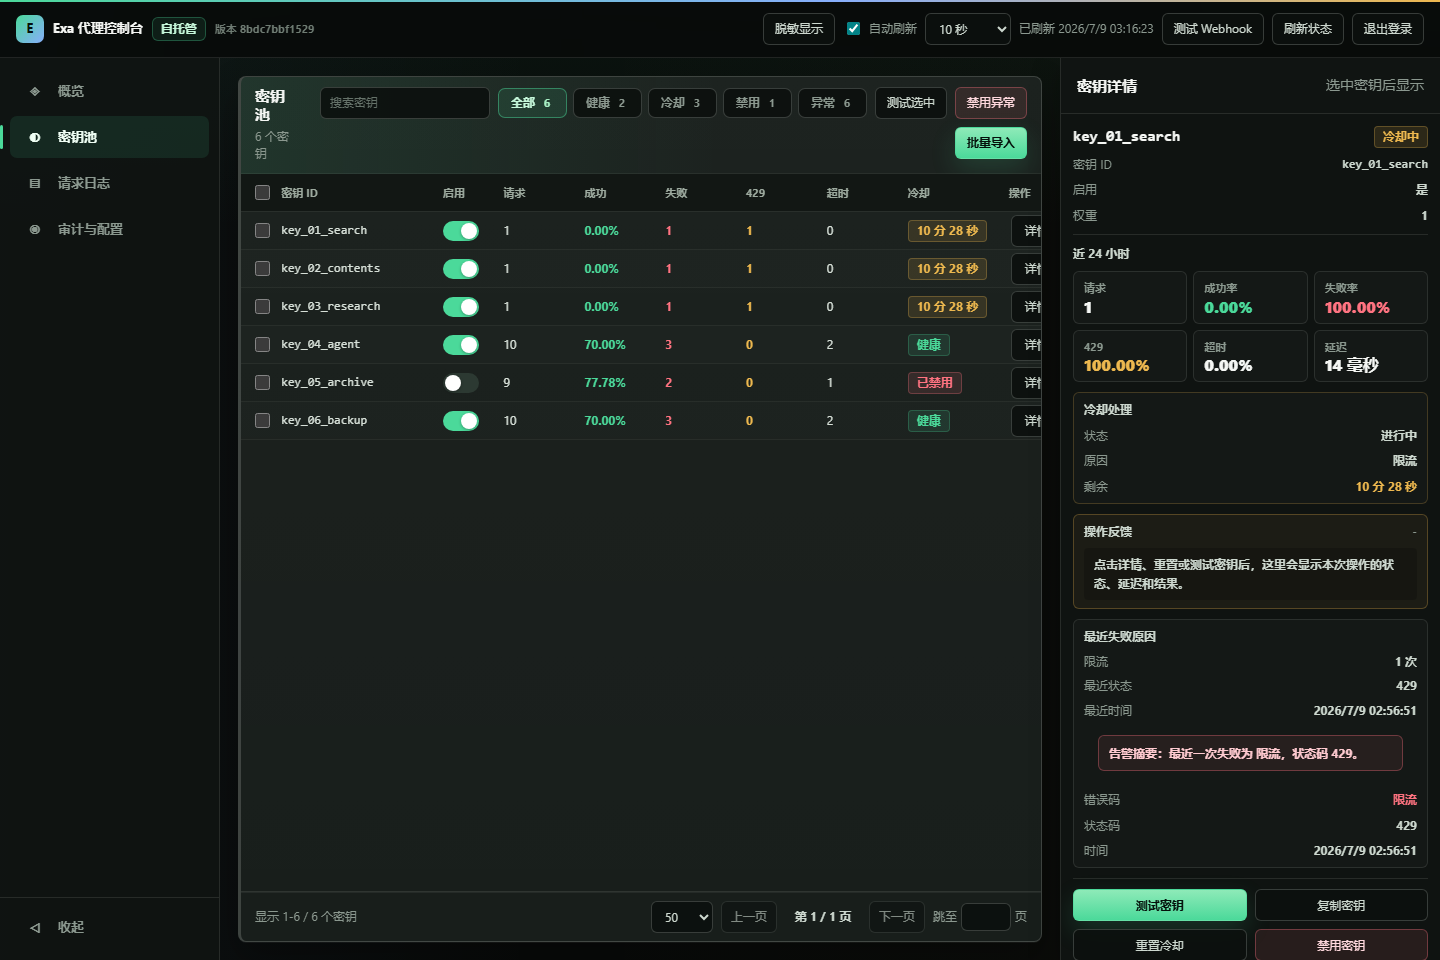
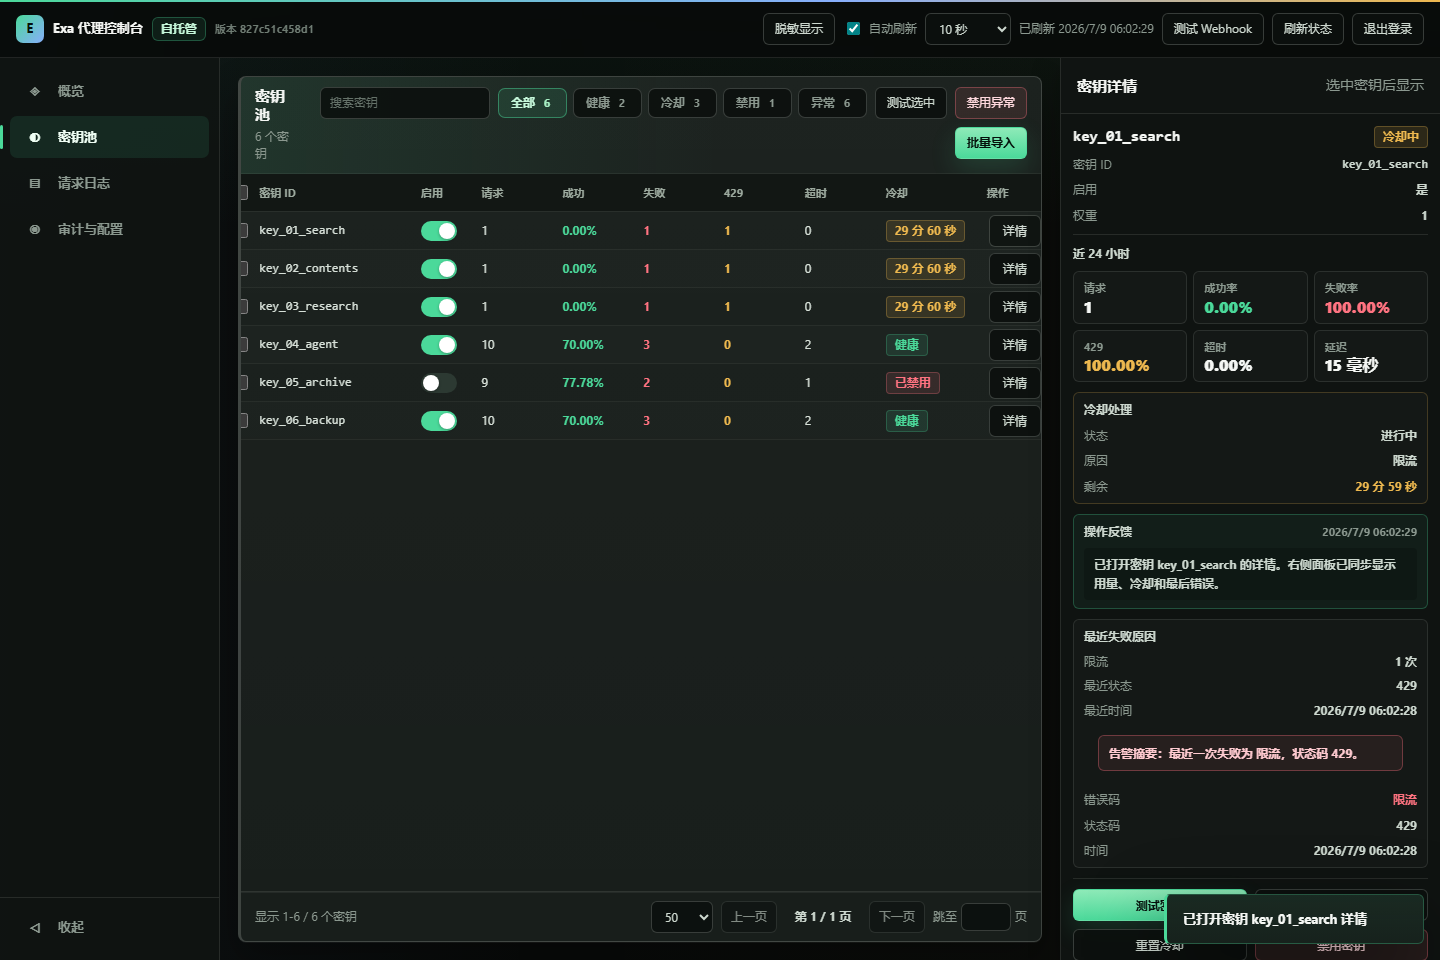
docs(readme): refresh admin console preview

diff --git a/scripts/capture-admin-preview.ts b/scripts/capture-admin-preview.ts
@@ -1,0 +1,67 @@
+import { chromium } from '@playwright/test';
+import { mkdirSync } from 'node:fs';
+import { dirname, resolve } from 'node:path';
+import { spawn } from 'node:child_process';
+import { once } from 'node:events';
+
+const port = Number(process.env.EXA_PREVIEW_PORT || 8787);
+const baseUrl = `http://127.0.0.1:${port}`;
+const outputPath = resolve(process.cwd(), 'docs/assets/admin-console.png');
+
+const server = spawn(process.execPath, ['--import', 'tsx', 'scripts/demo-ui-server.ts'], {
+  cwd: process.cwd(),
+  env: { ...process.env, EXA_DEMO_PORT: String(port) },
+  stdio: ['ignore', 'pipe', 'pipe']
+});
+
+let serverOutput = '';
+server.stdout?.on('data', (chunk) => { serverOutput += String(chunk); });
+server.stderr?.on('data', (chunk) => { serverOutput += String(chunk); });
+
+async function waitForDemo(): Promise<void> {
+  const started = Date.now();
+  while (Date.now() - started < 15_000) {
+    if (server.exitCode !== null) throw new Error(`Demo server exited early.\n${serverOutput}`);
+    try {
+      const response = await fetch(`${baseUrl}/_proxy/live`);
+      if (response.ok) return;
+    } catch {
+      // Server is still binding.
+    }
+    await new Promise((resolveWait) => setTimeout(resolveWait, 250));
+  }
+  throw new Error(`Timed out waiting for demo server at ${baseUrl}.\n${serverOutput}`);
+}
+
+async function stopDemo(): Promise<void> {
+  if (server.exitCode !== null) return;
+  server.kill('SIGTERM');
+  await Promise.race([
+    once(server, 'exit'),
+    new Promise((resolveWait) => setTimeout(resolveWait, 5_000))
+  ]);
+  if (server.exitCode === null) server.kill('SIGKILL');
+}
+
+try {
+  await waitForDemo();
+  mkdirSync(dirname(outputPath), { recursive: true });
+
+  const browser = await chromium.launch();
+  try {
+    const page = await browser.newPage({ viewport: { width: 1440, height: 960 }, deviceScaleFactor: 1 });
+    await page.goto(baseUrl, { waitUntil: 'networkidle' });
+    await page.fill('#loginToken', 'admin_local_token');
+    await page.click('#loginButton');
+    await page.waitForSelector('#keysBody tr[data-key-id="key_01_search"]', { state: 'visible' });
+    await page.locator('#keysBody tr[data-key-id="key_01_search"] button[data-action="select"]').click();
+    await page.waitForSelector('.details-sticky');
+    await page.screenshot({ path: outputPath, fullPage: false });
+  } finally {
+    await browser.close();
+  }
+
+  console.log(`Admin Console preview captured: ${outputPath}`);
+} finally {
+  await stopDemo();
+}

diff --git a/test/demo.test.ts b/test/demo.test.ts
@@ -5,15 +5,40 @@ describe('demo ui script', () => {
   it('exposes a reproducible Chinese admin UI demo entrypoint', () => {
     const packageJson = JSON.parse(readFileSync('package.json', 'utf8')) as { scripts?: Record<string, string> };
     expect(packageJson.scripts?.['demo:ui']).toBe('tsx scripts/demo-ui-server.ts');
+    expect(packageJson.scripts?.['capture:preview']).toBe('tsx scripts/capture-admin-preview.ts');
     expect(existsSync('scripts/demo-ui-server.ts')).toBe(true);
+    expect(existsSync('scripts/capture-admin-preview.ts')).toBe(true);
 
     const script = readFileSync('scripts/demo-ui-server.ts', 'utf8');
+    const captureScript = readFileSync('scripts/capture-admin-preview.ts', 'utf8');
     expect(script).toContain('admin_local_token');
     expect(script).toContain('client_local_token');
-    expect(script).toContain("console.log('地址: http://127.0.0.1:8787');");
+    expect(script).toContain('EXA_DEMO_PORT');
+    expect(script).toContain('console.log(`地址: http://127.0.0.1:${config.port}`);');
     expect(script).not.toContain('http://127.0.0.1:8787/_proxy/ui');
     expect(script).toContain('触发一把搜索密钥限流');
     expect(script).toContain('冷却');
+    expect(captureScript).toContain('docs/assets/admin-console.png');
+    expect(captureScript).toContain('EXA_PREVIEW_PORT');
+    expect(captureScript).toContain('EXA_DEMO_PORT');
+    expect(captureScript).toContain("page.fill('#loginToken', 'admin_local_token')");
+    expect(captureScript).toContain('key_01_search');
+  });
+
+  it('keeps the README admin console preview reproducible and non-empty', () => {
+    const image = readFileSync('docs/assets/admin-console.png');
+    const readme = readFileSync('README.md', 'utf8');
+    const docsReadme = readFileSync('docs/README.md', 'utf8');
+    const scriptsReadme = readFileSync('scripts/README.md', 'utf8');
+
+    expect(readme).toContain('![Admin Console](docs/assets/admin-console.png)');
+    expect(readme).toContain('npm run capture:preview');
+    expect(docsReadme).toContain('npm run capture:preview');
+    expect(scriptsReadme).toContain('capture-admin-preview.ts');
+    expect(image.subarray(0, 8).toString('hex')).toBe('89504e470d0a1a0a');
+    expect(image.readUInt32BE(16)).toBe(1440);
+    expect(image.readUInt32BE(20)).toBe(960);
+    expect(image.length).toBeGreaterThan(120_000);
   });
 
   it('documents the local demo console flow in Chinese', () => {

diff --git a/scripts/demo-ui-server.ts b/scripts/demo-ui-server.ts
@@ -37,7 +37,7 @@ const upstreamUrl = `http://127.0.0.1:${address.port}`;
 
 const config: ProxyConfig = {
   host: '127.0.0.1',
-  port: 8787,
+  port: Number(process.env.EXA_DEMO_PORT || 8787),
   upstreamUrl,
   keys: [
     { id: 'key_01_search', value: 'fake_key_01', weight: 1, enabled: true },
@@ -114,7 +114,7 @@ await app.inject({ method: 'POST', url: '/_proxy/keys/key_04_agent/reset-circuit
 await send('POST', '/search?case=slow&recent=1', { query: '最近一次超时样本' });
 
 console.log('演示控制台已启动');
-console.log('地址: http://127.0.0.1:8787');
+console.log(`地址: http://127.0.0.1:${config.port}`);
 console.log('管理员令牌: admin_local_token');
 console.log('客户端令牌: client_local_token');
 console.log(`模拟上游: ${upstreamUrl}`);

diff --git a/.trellis/spec/frontend/quality-guidelines.md b/.trellis/spec/frontend/quality-guidelines.md
@@ -9,7 +9,7 @@ Admin Console quality is verified through TypeScript build boundaries, Vitest co
 - Run `npm run test:e2e` after changing `src/admin-ui/`, `src/admin/static.ts`, or Admin Console copy used by role/text selectors.
 - Keep `npm run verify` green before reporting readiness; it includes secret scan, lint, unit/integration tests, audit, and build.
 - Keep `test/e2e/admin-console.spec.ts` aligned with intentional UI structure changes. Do not weaken it to hide a real workflow regression.
-- Preserve screenshot assets only when they reflect a rendered local demo or app state.
+- Preserve screenshot assets only when they reflect a rendered local demo or app state. README-facing screenshots must have a reproducible capture command and static tests that pin the referenced file, command, dimensions, and non-empty PNG bytes.
 
 ## Visual QA Checklist
 

diff --git a/README.md b/README.md
@@ -32,6 +32,8 @@ npm run demo:ui
 
 ![Admin Console](docs/assets/admin-console.png)
 
+截图由 `npm run capture:preview` 从本地 demo 实时渲染生成，和 `npm run demo:ui` 看到的是同一套静态控制台。
+
 ## 为什么值得用
 
 | 信号 | 项目已经内置 |

diff --git a/docs/README.md b/docs/README.md
@@ -6,4 +6,4 @@
 - `DEPLOYMENT_CHECKLIST.md` - 部署前后检查清单。
 - `openapi.json` - `/_proxy` 探针与管理接口的 OpenAPI 3.1 契约；运行服务会同步暴露为 `/_proxy/openapi.json`。
 - `../scripts/setup-env.mjs` - 源码部署时可用 `npm run setup:env` 生成强随机 `.env`。
-- `assets/admin-console.png` - README 使用的真实控制台截图，由本地 demo 渲染生成。
+- `assets/admin-console.png` - README 使用的真实控制台截图，由 `npm run capture:preview` 从本地 demo 渲染生成。

diff --git a/scripts/README.md b/scripts/README.md
@@ -8,4 +8,4 @@
 - `publish-docker-hub.bat` - 手动构建并推送 Docker Hub 镜像。
 - `prepare-deployment.bat` - 部署前检查和准备。
 - `check-docker.bat` / `fix-sqlite.bat` - 本地排查辅助脚本。
-- `copy-admin-ui.mjs`, `demo-ui-server.ts` - 开发和辅助脚本。
+- `copy-admin-ui.mjs`, `demo-ui-server.ts`, `capture-admin-preview.ts` - 开发、演示和 README 截图辅助脚本。